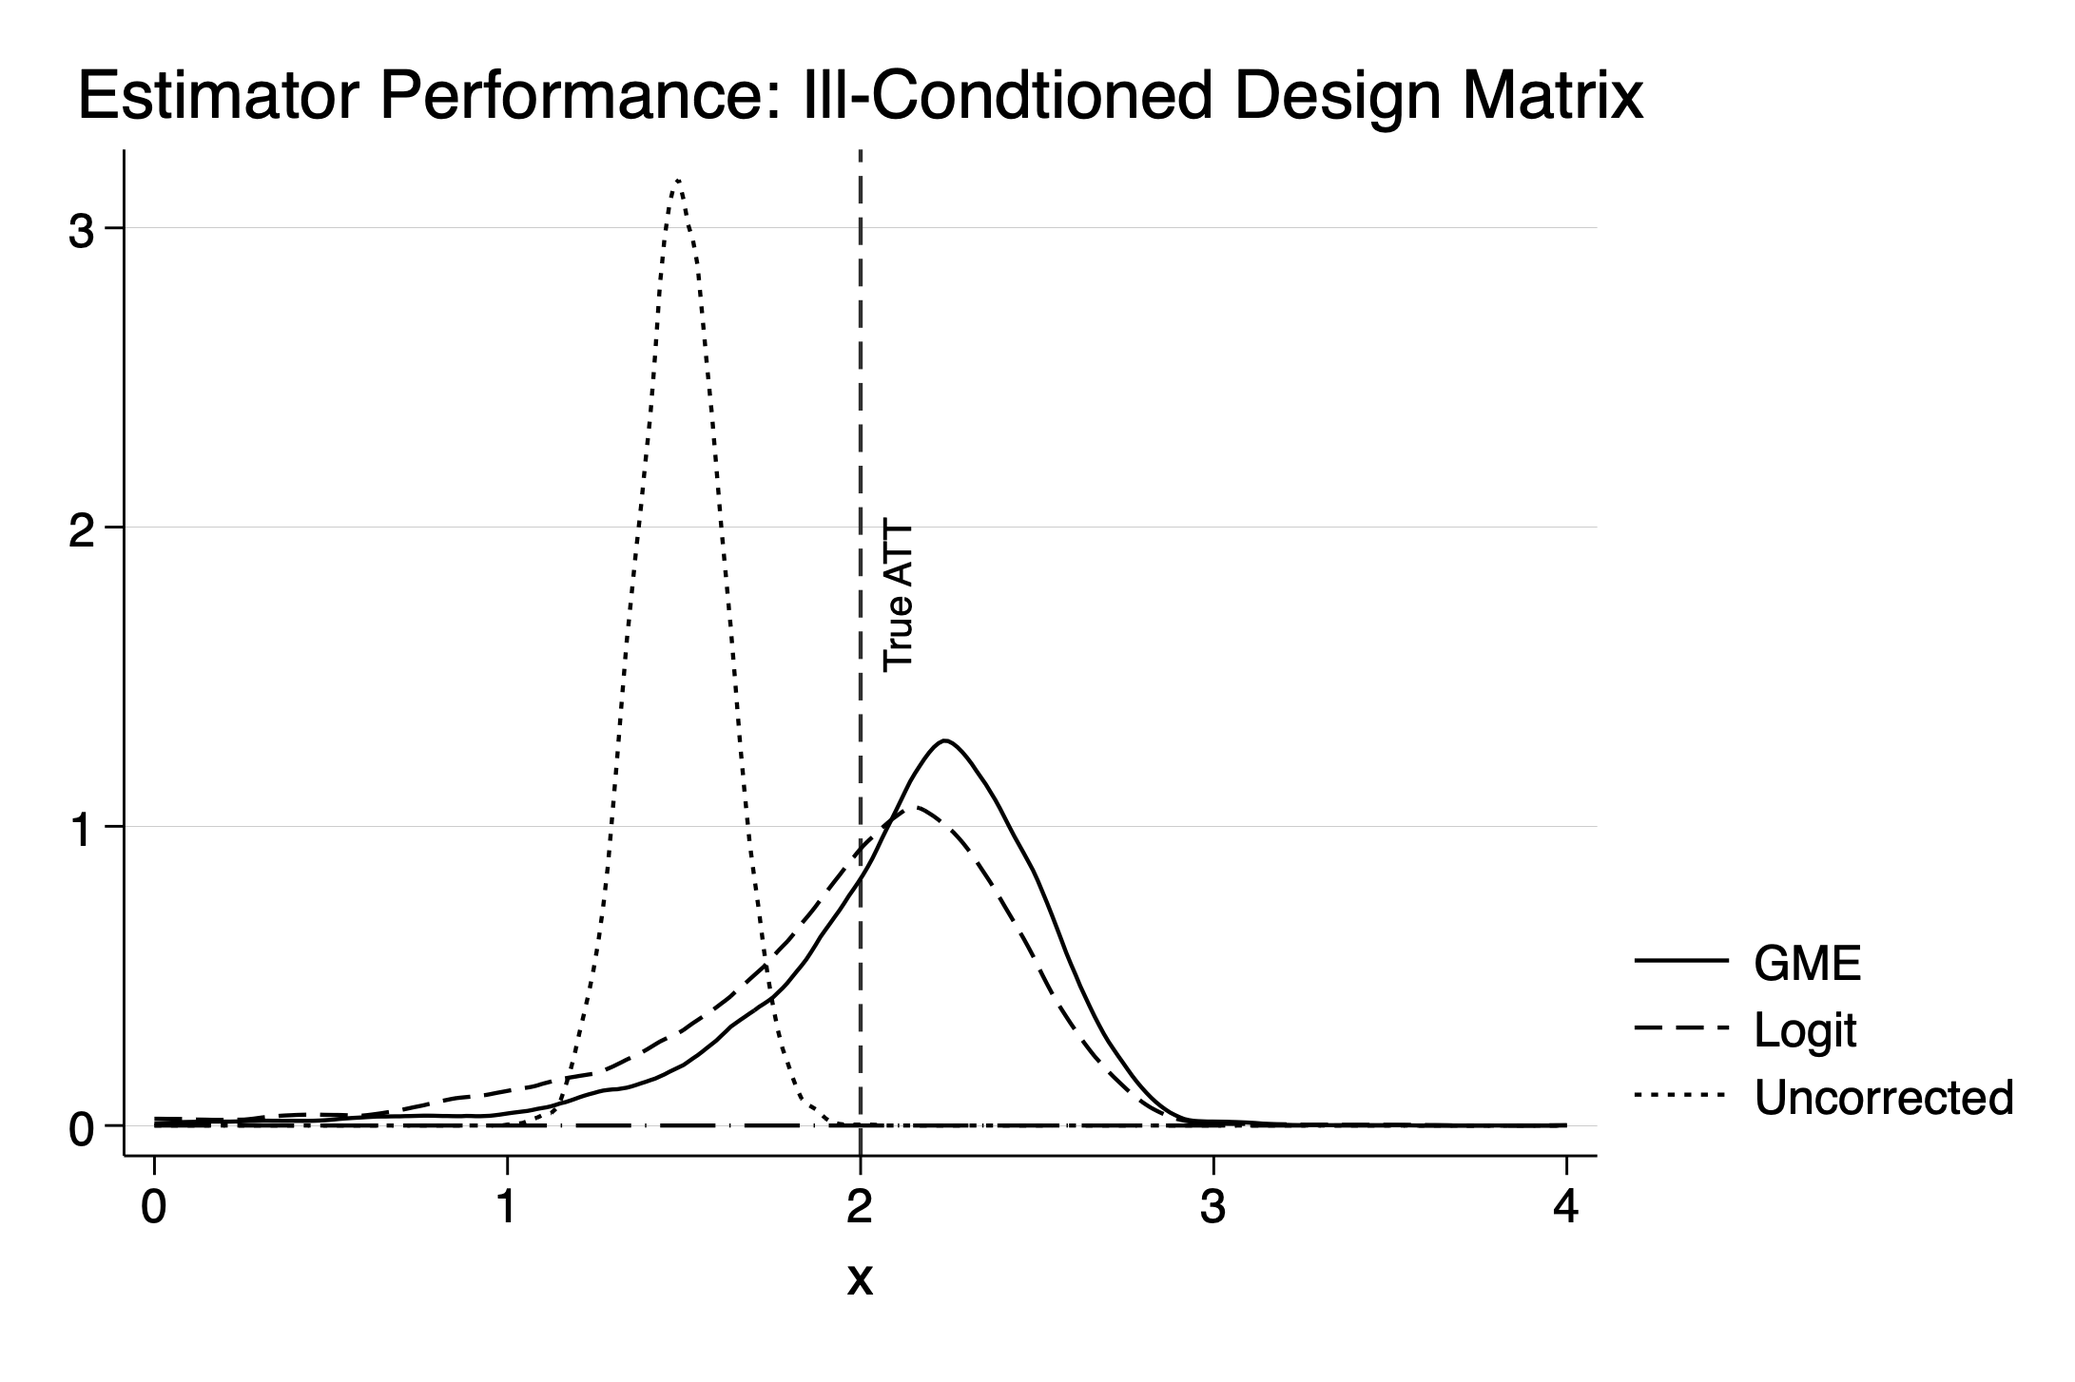
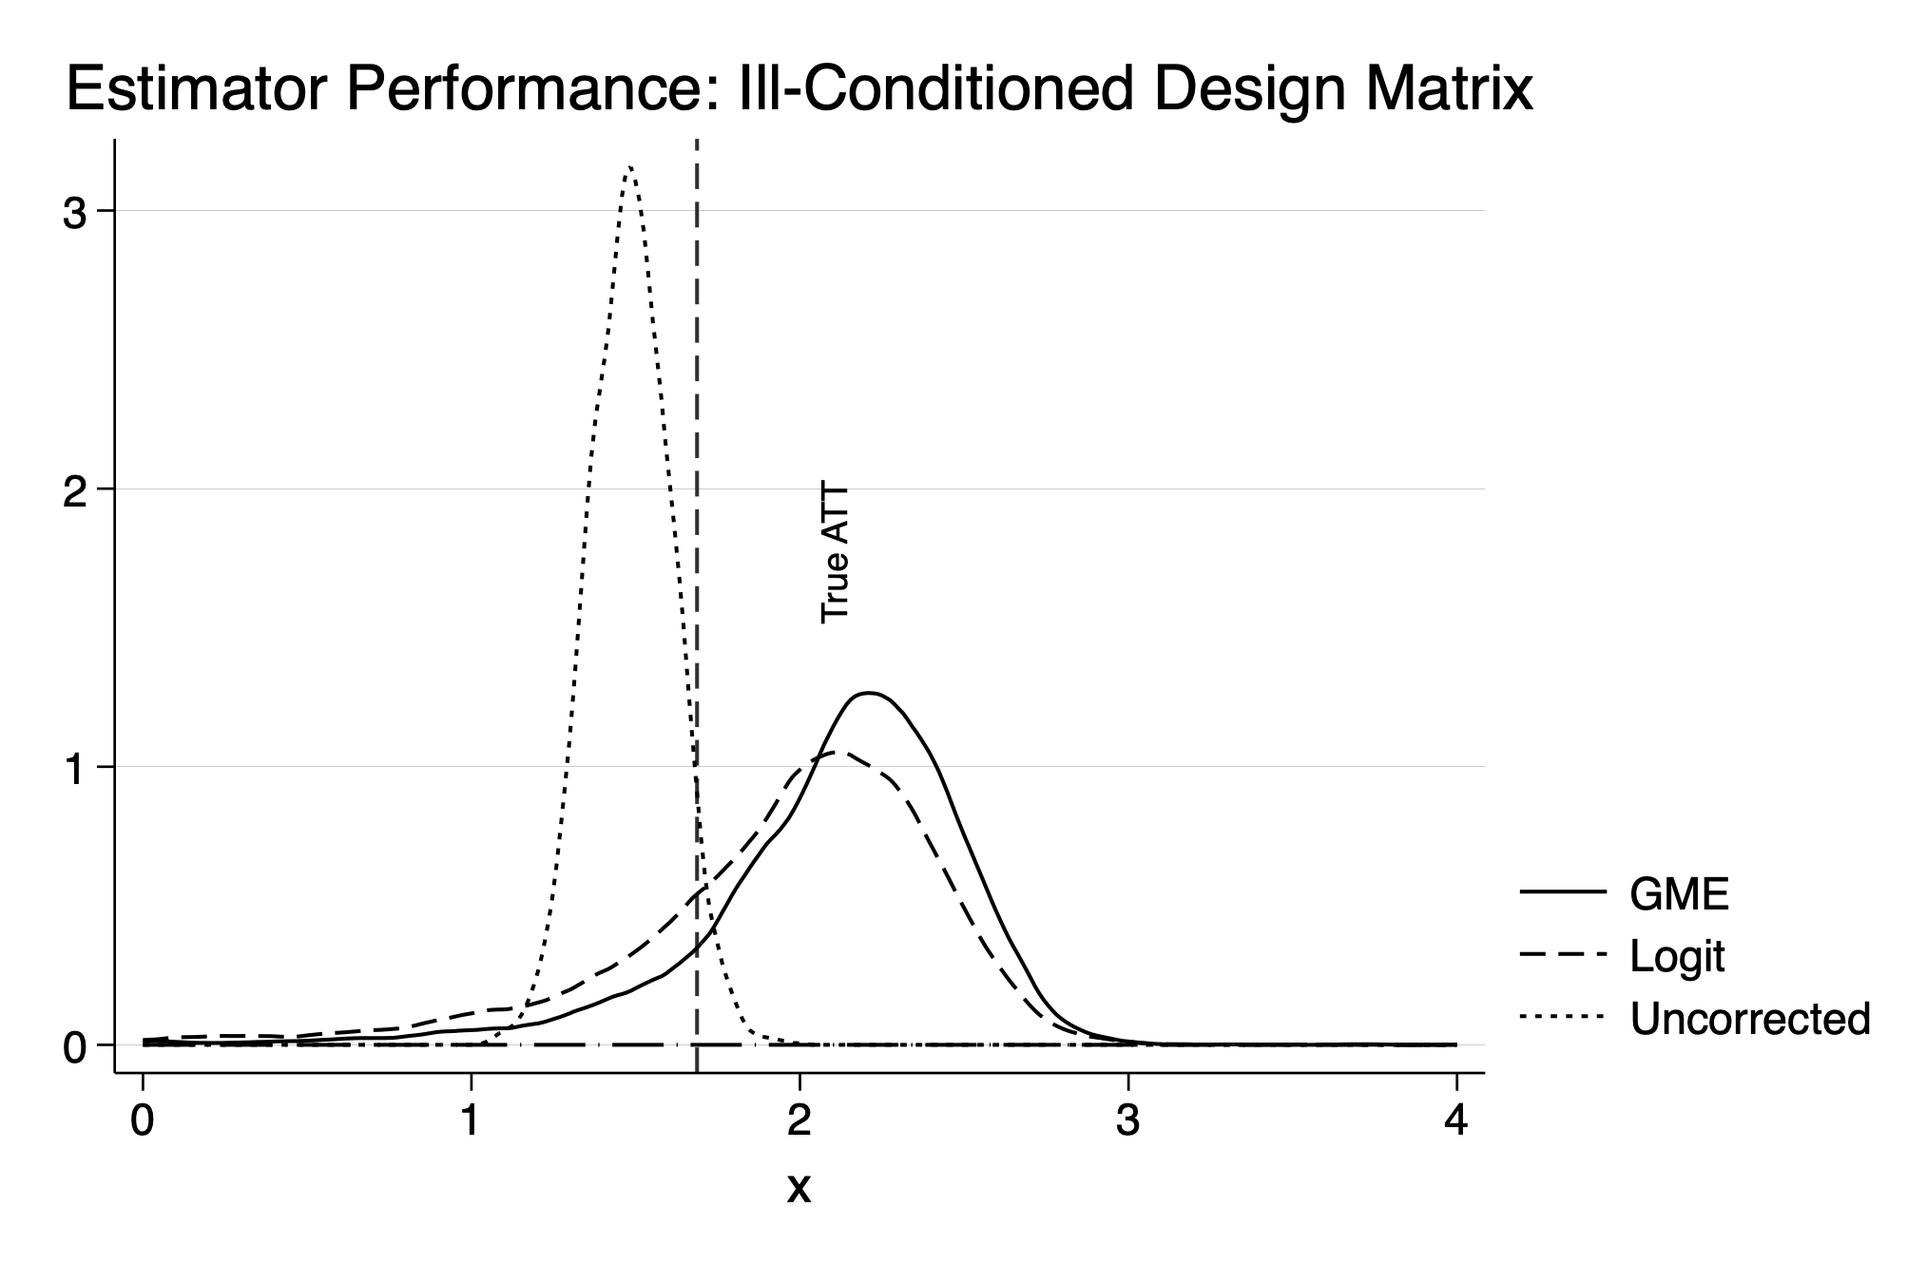
add reports related to new estimator

diff --git a/reports/tables/pre-trend.html b/reports/tables/pre-trend.html
@@ -1,323 +1,30 @@
-<html xmlns:o="urn:schemas-microsoft-com:office:office"
-xmlns:x="urn:schemas-microsoft-com:office:excel"
-xmlns="http://www.w3.org/TR/REC-html40">
 
-<head>
-<meta http-equiv=Content-Type content="text/html; charset=utf-8">
-<meta name=ProgId content=Excel.Sheet>
-<meta name=Generator content="Microsoft Excel 15">
-<link rel=File-List href="pre-trend.fld/filelist.xml">
-<style id="pre-trend_11769_Styles">
-<!--table
-	{mso-displayed-decimal-separator:"\.";
-	mso-displayed-thousand-separator:"\,";}
-@page
-	{margin:1.0in .75in 1.0in .75in;
-	mso-header-margin:.5in;
-	mso-footer-margin:.5in;}
-tr
-	{mso-height-source:auto;}
-col
-	{mso-width-source:auto;}
-br
-	{mso-data-placement:same-cell;}
-.style0
-	{mso-number-format:General;
-	text-align:general;
-	vertical-align:bottom;
-	white-space:nowrap;
-	mso-rotate:0;
-	mso-background-source:auto;
-	mso-pattern:auto;
-	color:black;
-	font-size:12.0pt;
-	font-weight:400;
-	font-style:normal;
-	text-decoration:none;
-	font-family:"Aptos Narrow", sans-serif;
-	mso-font-charset:0;
-	border:none;
-	mso-protection:locked visible;
-	mso-style-name:Normal;
-	mso-style-id:0;}
-td
-	{mso-style-parent:style0;
-	padding-top:1px;
-	padding-right:1px;
-	padding-left:1px;
-	mso-ignore:padding;
-	color:black;
-	font-size:12.0pt;
-	font-weight:400;
-	font-style:normal;
-	text-decoration:none;
-	font-family:"Aptos Narrow", sans-serif;
-	mso-font-charset:0;
-	mso-number-format:General;
-	text-align:general;
-	vertical-align:bottom;
-	border:none;
-	mso-background-source:auto;
-	mso-pattern:auto;
-	mso-protection:locked visible;
-	white-space:nowrap;
-	mso-rotate:0;}
-.xl65
-	{mso-style-parent:style0;
-	white-space:normal;}
-.xl66
-	{mso-style-parent:style0;
-	text-align:left;
-	white-space:normal;}
-.xl67
-	{mso-style-parent:style0;
-	font-size:10.0pt;
-	white-space:normal;}
-.xl68
-	{mso-style-parent:style0;
-	font-size:10.0pt;
-	text-align:left;
-	white-space:normal;}
-.xl69
-	{mso-style-parent:style0;
-	font-size:10.0pt;
-	font-weight:700;
-	text-align:center;}
-.xl70
-	{mso-style-parent:style0;
-	border-top:none;
-	border-right:none;
-	border-bottom:1.0pt solid black;
-	border-left:none;
-	white-space:normal;}
-.xl71
-	{mso-style-parent:style0;
-	border-top:1.0pt solid black;
-	border-right:none;
-	border-bottom:1.0pt solid black;
-	border-left:none;
-	white-space:normal;}
-.xl72
-	{mso-style-parent:style0;
-	font-size:10.0pt;
-	text-align:center;
-	border-top:1.0pt solid black;
-	border-right:none;
-	border-bottom:none;
-	border-left:none;
-	white-space:normal;}
-.xl73
-	{mso-style-parent:style0;
-	font-size:10.0pt;
-	font-style:italic;
-	text-align:center;
-	border-top:1.0pt solid black;
-	border-right:none;
-	border-bottom:none;
-	border-left:none;
-	white-space:normal;}
--->
-</style>
-</head>
-
-<body link="#467886" vlink="#96607D">
-<!--[if !excel]>&nbsp;&nbsp;<![endif]-->
-<!--The following information was generated by Microsoft Excel's Publish as Web
-Page wizard.-->
-<!--If the same item is republished from Excel, all information between the DIV
-tags will be replaced.-->
-<!----------------------------->
-<!--START OF OUTPUT FROM EXCEL PUBLISH AS WEB PAGE WIZARD -->
-<!----------------------------->
-
-<div id="pre-trend_11769" align=center x:publishsource="Excel">
-
-<table border=0 cellpadding=0 cellspacing=0 width=426 style='border-collapse:
- collapse;table-layout:fixed;width:319pt'>
- <col width=131 style='mso-width-source:userset;mso-width-alt:4181;width:98pt'>
- <col width=96 span=2 style='mso-width-source:userset;mso-width-alt:3072;
- width:72pt'>
- <col width=103 style='mso-width-source:userset;mso-width-alt:3285;width:77pt'>
- <tr height=21 style='height:16.0pt'>
-  <td colspan=4 height=21 class=xl69 width=426 style='height:16.0pt;width:319pt'>Pre-trend
-  Analysis</td>
- </tr>
- <tr height=23 style='height:17.0pt'>
-  <td colspan=4 height=23 class=xl70 width=426 style='height:17.0pt;width:319pt'>&nbsp;</td>
- </tr>
- <tr height=21 style='height:16.0pt'>
-  <td height=21 class=xl66 width=131 style='height:16.0pt;width:98pt'></td>
-  <td colspan=3 class=xl73 width=295 style='width:221pt'>Dependent variable:</td>
- </tr>
- <tr height=23 style='height:17.0pt'>
-  <td height=23 class=xl65 width=131 style='height:17.0pt;width:98pt'></td>
-  <td colspan=3 class=xl70 width=295 style='width:221pt'>&nbsp;</td>
- </tr>
- <tr height=21 style='height:16.0pt'>
-  <td height=21 class=xl66 width=131 style='height:16.0pt;width:98pt'></td>
-  <td colspan=3 class=xl72 width=295 style='width:221pt'>Fixed Rate</td>
- </tr>
- <tr height=21 style='height:16.0pt'>
-  <td height=21 class=xl66 width=131 style='height:16.0pt;width:98pt'></td>
-  <td class=xl67 width=96 style='width:72pt'>2-year contracts</td>
-  <td class=xl67 width=96 style='width:72pt'>5-year contracts</td>
-  <td class=xl67 width=103 style='width:77pt'>10-year contracts</td>
- </tr>
- <tr height=23 style='height:17.0pt'>
-  <td colspan=4 height=23 class=xl70 width=426 style='height:17.0pt;width:319pt'>&nbsp;</td>
- </tr>
- <tr height=21 style='height:16.0pt'>
-  <td height=21 class=xl68 width=131 style='height:16.0pt;width:98pt'>Currency
-  (USD)</td>
-  <td class=xl67 align=right width=96 style='width:72pt'>-28.79</td>
-  <td class=xl67 align=right width=96 style='width:72pt'>-50.311</td>
-  <td class=xl67 align=right width=103 style='width:77pt'>-13.741</td>
- </tr>
- <tr height=21 style='height:16.0pt'>
-  <td height=21 class=xl66 width=131 style='height:16.0pt;width:98pt'></td>
-  <td class=xl67 align=right width=96 style='width:72pt'>-41.081</td>
-  <td class=xl67 align=right width=96 style='width:72pt'>-28.185</td>
-  <td class=xl67 align=right width=103 style='width:77pt'>-23.332</td>
- </tr>
- <tr height=21 style='height:16.0pt'>
-  <td height=21 class=xl66 width=131 style='height:16.0pt;width:98pt'></td>
-  <td class=xl65 width=96 style='width:72pt'></td>
-  <td class=xl65 width=96 style='width:72pt'></td>
-  <td class=xl65 width=103 style='width:77pt'></td>
- </tr>
- <tr height=21 style='height:16.0pt'>
-  <td height=21 class=xl68 width=131 style='height:16.0pt;width:98pt'>Trade
-  Date</td>
-  <td class=xl67 align=right width=96 style='width:72pt'>-0.003</td>
-  <td class=xl67 align=right width=96 style='width:72pt'>-0.002</td>
-  <td class=xl67 align=right width=103 style='width:77pt'>0.001</td>
- </tr>
- <tr height=21 style='height:16.0pt'>
-  <td height=21 class=xl66 width=131 style='height:16.0pt;width:98pt'></td>
-  <td class=xl67 align=right width=96 style='width:72pt'>-0.001</td>
-  <td class=xl67 align=right width=96 style='width:72pt'>-0.001</td>
-  <td class=xl67 align=right width=103 style='width:77pt'>-0.001</td>
- </tr>
- <tr height=21 style='height:16.0pt'>
-  <td height=21 class=xl66 width=131 style='height:16.0pt;width:98pt'></td>
-  <td class=xl65 width=96 style='width:72pt'></td>
-  <td class=xl65 width=96 style='width:72pt'></td>
-  <td class=xl65 width=103 style='width:77pt'></td>
- </tr>
- <tr height=21 style='height:16.0pt'>
-  <td height=21 class=xl68 width=131 style='height:16.0pt;width:98pt'>Log
-  Notional</td>
-  <td class=xl67 align=right width=96 style='width:72pt'>0.01</td>
-  <td class=xl67 align=right width=96 style='width:72pt'>0.007</td>
-  <td class=xl67 align=right width=103 style='width:77pt'>0.024</td>
- </tr>
- <tr height=21 style='height:16.0pt'>
-  <td height=21 class=xl66 width=131 style='height:16.0pt;width:98pt'></td>
-  <td class=xl67 align=right width=96 style='width:72pt'>-0.009</td>
-  <td class=xl67 align=right width=96 style='width:72pt'>-0.02</td>
-  <td class=xl67 align=right width=103 style='width:77pt'>-0.007</td>
- </tr>
- <tr height=21 style='height:16.0pt'>
-  <td height=21 class=xl66 width=131 style='height:16.0pt;width:98pt'></td>
-  <td class=xl65 width=96 style='width:72pt'></td>
-  <td class=xl65 width=96 style='width:72pt'></td>
-  <td class=xl65 width=103 style='width:77pt'></td>
- </tr>
- <tr height=21 style='height:16.0pt'>
-  <td height=21 class=xl68 width=131 style='height:16.0pt;width:98pt'>Cleared</td>
-  <td class=xl67 align=right width=96 style='width:72pt'>-0.063</td>
-  <td class=xl67 align=right width=96 style='width:72pt'>-0.147</td>
-  <td class=xl67 align=right width=103 style='width:77pt'>-0.077</td>
- </tr>
- <tr height=21 style='height:16.0pt'>
-  <td height=21 class=xl66 width=131 style='height:16.0pt;width:98pt'></td>
-  <td class=xl67 align=right width=96 style='width:72pt'>-0.062</td>
-  <td class=xl67 align=right width=96 style='width:72pt'>-0.035</td>
-  <td class=xl67 align=right width=103 style='width:77pt'>-0.023</td>
- </tr>
- <tr height=21 style='height:16.0pt'>
-  <td height=21 class=xl66 width=131 style='height:16.0pt;width:98pt'></td>
-  <td class=xl65 width=96 style='width:72pt'></td>
-  <td class=xl65 width=96 style='width:72pt'></td>
-  <td class=xl65 width=103 style='width:77pt'></td>
- </tr>
- <tr height=21 style='height:16.0pt'>
-  <td height=21 class=xl68 width=131 style='height:16.0pt;width:98pt'>Capped</td>
-  <td class=xl67 align=right width=96 style='width:72pt'>0.103</td>
-  <td class=xl67 align=right width=96 style='width:72pt'>0.045</td>
-  <td class=xl67 align=right width=103 style='width:77pt'>0.033</td>
- </tr>
- <tr height=21 style='height:16.0pt'>
-  <td height=21 class=xl66 width=131 style='height:16.0pt;width:98pt'></td>
-  <td class=xl67 align=right width=96 style='width:72pt'>-0.066</td>
-  <td class=xl67 align=right width=96 style='width:72pt'>-0.034</td>
-  <td class=xl67 align=right width=103 style='width:77pt'>-0.017</td>
- </tr>
- <tr height=21 style='height:16.0pt'>
-  <td height=21 class=xl66 width=131 style='height:16.0pt;width:98pt'></td>
-  <td class=xl65 width=96 style='width:72pt'></td>
-  <td class=xl65 width=96 style='width:72pt'></td>
-  <td class=xl65 width=103 style='width:77pt'></td>
- </tr>
- <tr height=40 style='height:30.0pt'>
-  <td height=40 class=xl68 width=131 style='height:30.0pt;width:98pt'>Currency
-  (USD) * Trade Date</td>
-  <td class=xl67 align=right width=96 style='width:72pt'>0.002</td>
-  <td class=xl67 align=right width=96 style='width:72pt'>0.003</td>
-  <td class=xl67 align=right width=103 style='width:77pt'>0.001</td>
- </tr>
- <tr height=21 style='height:16.0pt'>
-  <td height=21 class=xl66 width=131 style='height:16.0pt;width:98pt'></td>
-  <td class=xl67 align=right width=96 style='width:72pt'>-0.003</td>
-  <td class=xl67 align=right width=96 style='width:72pt'>-0.002</td>
-  <td class=xl67 align=right width=103 style='width:77pt'>-0.001</td>
- </tr>
- <tr height=21 style='height:16.0pt'>
-  <td height=21 class=xl66 width=131 style='height:16.0pt;width:98pt'></td>
-  <td class=xl65 width=96 style='width:72pt'></td>
-  <td class=xl65 width=96 style='width:72pt'></td>
-  <td class=xl65 width=103 style='width:77pt'></td>
- </tr>
- <tr height=21 style='height:16.0pt'>
-  <td height=21 class=xl68 width=131 style='height:16.0pt;width:98pt'>Constant</td>
-  <td class=xl67 align=right width=96 style='width:72pt'>41.431</td>
-  <td class=xl67 align=right width=96 style='width:72pt'>26.625</td>
-  <td class=xl67 align=right width=103 style='width:77pt'>-9.856</td>
- </tr>
- <tr height=21 style='height:16.0pt'>
-  <td height=21 class=xl66 width=131 style='height:16.0pt;width:98pt'></td>
-  <td class=xl67 align=right width=96 style='width:72pt'>-16.254</td>
-  <td class=xl67 align=right width=96 style='width:72pt'>-19.798</td>
-  <td class=xl67 align=right width=103 style='width:77pt'>-15.845</td>
- </tr>
- <tr height=21 style='height:16.0pt'>
-  <td height=21 class=xl66 width=131 style='height:16.0pt;width:98pt'></td>
-  <td class=xl65 width=96 style='width:72pt'></td>
-  <td class=xl65 width=96 style='width:72pt'></td>
-  <td class=xl65 width=103 style='width:77pt'></td>
- </tr>
- <tr height=23 style='height:17.0pt'>
-  <td colspan=4 height=23 class=xl70 width=426 style='height:17.0pt;width:319pt'>&nbsp;</td>
- </tr>
- <tr height=23 style='height:17.0pt'>
-  <td colspan=4 height=23 class=xl71 width=426 style='height:17.0pt;width:319pt'>&nbsp;</td>
- </tr>
- <![if supportMisalignedColumns]>
- <tr height=0 style='display:none'>
-  <td width=131 style='width:98pt'></td>
-  <td width=96 style='width:72pt'></td>
-  <td width=96 style='width:72pt'></td>
-  <td width=103 style='width:77pt'></td>
- </tr>
- <![endif]>
-</table>
-
-</div>
-
-
-<!----------------------------->
-<!--END OF OUTPUT FROM EXCEL PUBLISH AS WEB PAGE WIZARD-->
-<!----------------------------->
-</body>
-
-</html>
+<table style="text-align:center"><caption><strong>Pre-trend Analysis</strong></caption>
+<tr><td colspan="4" style="border-bottom: 1px solid black"></td></tr><tr><td style="text-align:left"></td><td colspan="3"><em>Dependent variable:</em></td></tr>
+<tr><td></td><td colspan="3" style="border-bottom: 1px solid black"></td></tr>
+<tr><td style="text-align:left"></td><td colspan="3">Fixed Rate</td></tr>
+<tr><td style="text-align:left"></td><td>2-year contracts</td><td>5-year contracts</td><td>10-year contracts</td></tr>
+<tr><td colspan="4" style="border-bottom: 1px solid black"></td></tr><tr><td style="text-align:left">CurrUSD</td><td>-18.295</td><td>-58.045</td><td>-34.252</td></tr>
+<tr><td style="text-align:left"></td><td>(130.189)</td><td>(64.300)</td><td>(63.463)</td></tr>
+<tr><td style="text-align:left"></td><td></td><td></td><td></td></tr>
+<tr><td style="text-align:left">`Trade Date`</td><td>-0.002</td><td>-0.0004</td><td>-0.0003</td></tr>
+<tr><td style="text-align:left"></td><td>(0.002)</td><td>(0.001)</td><td>(0.003)</td></tr>
+<tr><td style="text-align:left"></td><td></td><td></td><td></td></tr>
+<tr><td style="text-align:left">`Log Notional`</td><td>0.004</td><td>-0.009</td><td>0.033<sup>***</sup></td></tr>
+<tr><td style="text-align:left"></td><td>(0.014)</td><td>(0.036)</td><td>(0.013)</td></tr>
+<tr><td style="text-align:left"></td><td></td><td></td><td></td></tr>
+<tr><td style="text-align:left">Capped</td><td>0.163</td><td>0.173<sup>*</sup></td><td>0.084</td></tr>
+<tr><td style="text-align:left"></td><td>(0.161)</td><td>(0.098)</td><td>(0.052)</td></tr>
+<tr><td style="text-align:left"></td><td></td><td></td><td></td></tr>
+<tr><td style="text-align:left">CurrUSD:`Trade Date`</td><td>0.001</td><td>0.004</td><td>0.002</td></tr>
+<tr><td style="text-align:left"></td><td>(0.008)</td><td>(0.004)</td><td>(0.004)</td></tr>
+<tr><td style="text-align:left"></td><td></td><td></td><td></td></tr>
+<tr><td style="text-align:left">Constant</td><td>37.464</td><td>8.310</td><td>6.046</td></tr>
+<tr><td style="text-align:left"></td><td>(24.307)</td><td>(20.064)</td><td>(45.747)</td></tr>
+<tr><td style="text-align:left"></td><td></td><td></td><td></td></tr>
+<tr><td colspan="4" style="border-bottom: 1px solid black"></td></tr><tr><td style="text-align:left">Observations</td><td>162</td><td>635</td><td>921</td></tr>
+<tr><td style="text-align:left">R<sup>2</sup></td><td>0.340</td><td>0.064</td><td>0.031</td></tr>
+<tr><td style="text-align:left">Adjusted R<sup>2</sup></td><td>0.319</td><td>0.057</td><td>0.026</td></tr>
+<tr><td style="text-align:left">Residual Std. Error</td><td>0.524 (df = 156)</td><td>0.740 (df = 629)</td><td>0.521 (df = 915)</td></tr>
+<tr><td style="text-align:left">F Statistic</td><td>16.071<sup>***</sup> (df = 5; 156)</td><td>8.651<sup>***</sup> (df = 5; 629)</td><td>5.950<sup>***</sup> (df = 5; 915)</td></tr>
+<tr><td colspan="4" style="border-bottom: 1px solid black"></td></tr></table>

diff --git a/reports/tables/Baseline_Abadie.html b/reports/tables/Baseline_Abadie.html
@@ -3,8 +3,8 @@
 <tr><td>            </td><td>Abadie (Logit)</td><td>            </td><td>            </td></tr>
 <tr><td>            </td><td>    MeanBias</td><td>      StdDev</td><td>         MSE</td></tr>
 <tr><td colspan=4><hr></td></tr>
-<tr><td>Abadie(Logit)</td><td>   -.1305742</td><td>    .8087539</td><td>    .6711325</td></tr>
-<tr><td>Abadie(GME) </td><td>    .0643418</td><td>    .5272933</td><td>    .2821781</td></tr>
-<tr><td>Traditional DiD</td><td>   -.5154757</td><td>    .1318004</td><td>    .2830866</td></tr>
+<tr><td>Abadie(Logit)</td><td>    .1801662</td><td>    .9444149</td><td>    .9243794</td></tr>
+<tr><td>Abadie(GME) </td><td>     .377847</td><td>    .6168346</td><td>    .5232532</td></tr>
+<tr><td>Traditional DiD</td><td>   -.2021879</td><td>    .1292629</td><td>    .0575888</td></tr>
 <tr><td colspan=4><hr></td></tr>
 </table>

diff --git a/reports/tables/Ill_Conditioned_Abadie.html b/reports/tables/Ill_Conditioned_Abadie.html
@@ -3,8 +3,8 @@
 <tr><td>            </td><td>Abadie (Logit)</td><td>            </td><td>            </td></tr>
 <tr><td>            </td><td>    MeanBias</td><td>      StdDev</td><td>         MSE</td></tr>
 <tr><td colspan=4><hr></td></tr>
-<tr><td>Abadie(Logit)</td><td>   -.1448158</td><td>    2.065859</td><td>    4.288745</td></tr>
-<tr><td>Abadie(GME) </td><td>    .0646625</td><td>    1.160147</td><td>    1.350122</td></tr>
-<tr><td>Traditional DiD</td><td>   -.5113141</td><td>    .1286859</td><td>    .2780022</td></tr>
+<tr><td>Abadie(Logit)</td><td>    .1800112</td><td>    1.044403</td><td>    1.123181</td></tr>
+<tr><td>Abadie(GME) </td><td>    .3793287</td><td>     .640791</td><td>    .5545034</td></tr>
+<tr><td>Traditional DiD</td><td>   -.2018653</td><td>    .1248051</td><td>    .0563259</td></tr>
 <tr><td colspan=4><hr></td></tr>
 </table>

diff --git a/reports/tables/Small_Sample_Abadie.html b/reports/tables/Small_Sample_Abadie.html
@@ -3,8 +3,8 @@
 <tr><td>            </td><td>Abadie (Logit)</td><td>            </td><td>            </td></tr>
 <tr><td>            </td><td>    MeanBias</td><td>      StdDev</td><td>         MSE</td></tr>
 <tr><td colspan=4><hr></td></tr>
-<tr><td>Abadie(Logit)</td><td>    .1169992</td><td>    1.279985</td><td>    1.652051</td></tr>
-<tr><td>Abadie(GME) </td><td>     .564807</td><td>     .683304</td><td>    .7859113</td></tr>
-<tr><td>Traditional DiD</td><td>   -.5137796</td><td>    .5946682</td><td>    .6175997</td></tr>
+<tr><td>Abadie(Logit)</td><td>    .4276774</td><td>    1.250143</td><td>    1.745765</td></tr>
+<tr><td>Abadie(GME) </td><td>    .8843119</td><td>    .6409201</td><td>    1.192786</td></tr>
+<tr><td>Traditional DiD</td><td>   -.2069864</td><td>     .575759</td><td>    .3743418</td></tr>
 <tr><td colspan=4><hr></td></tr>
 </table>
